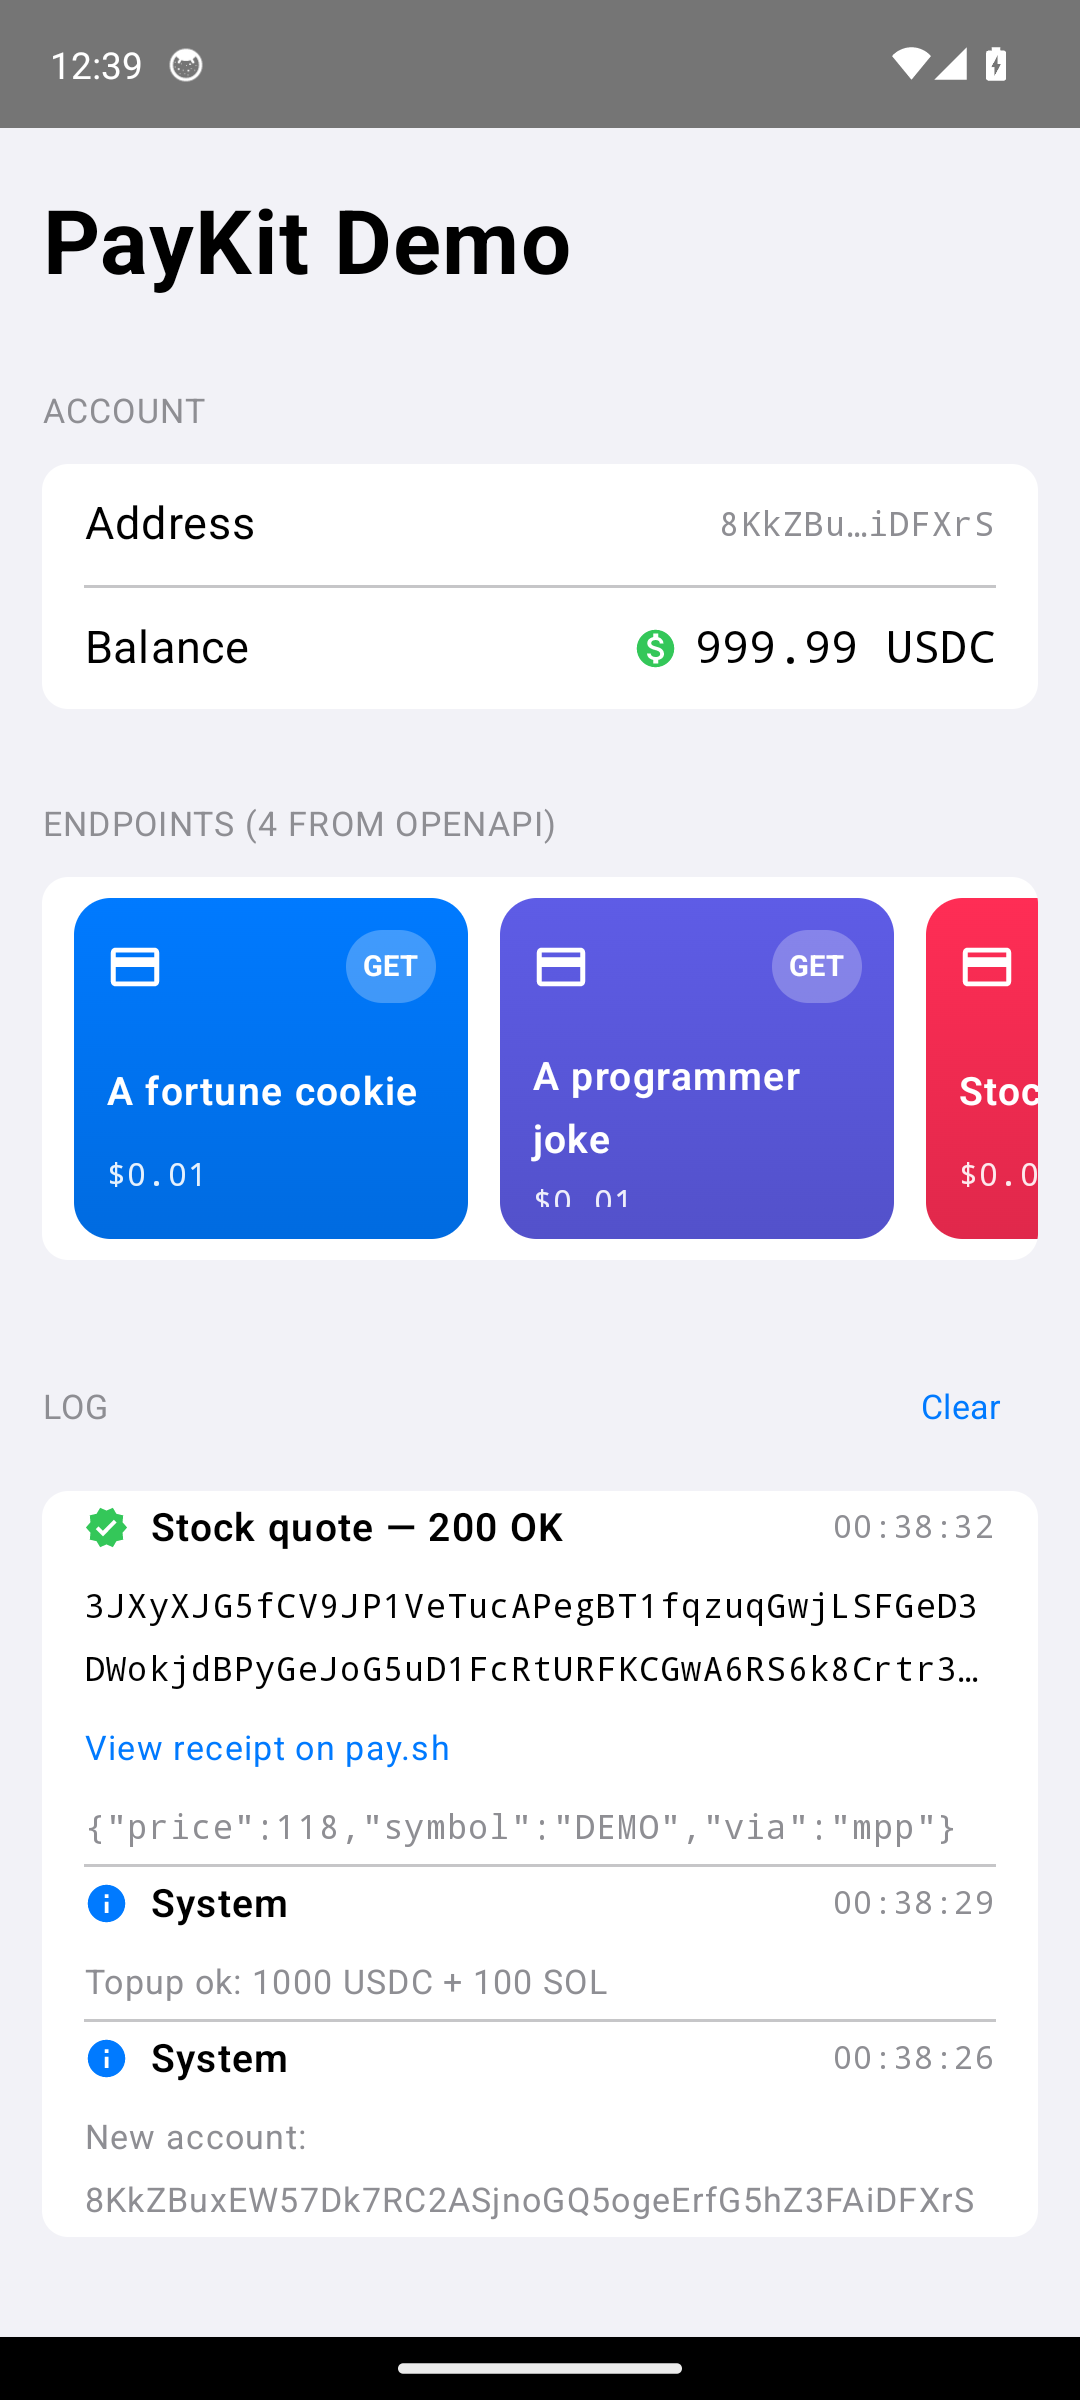
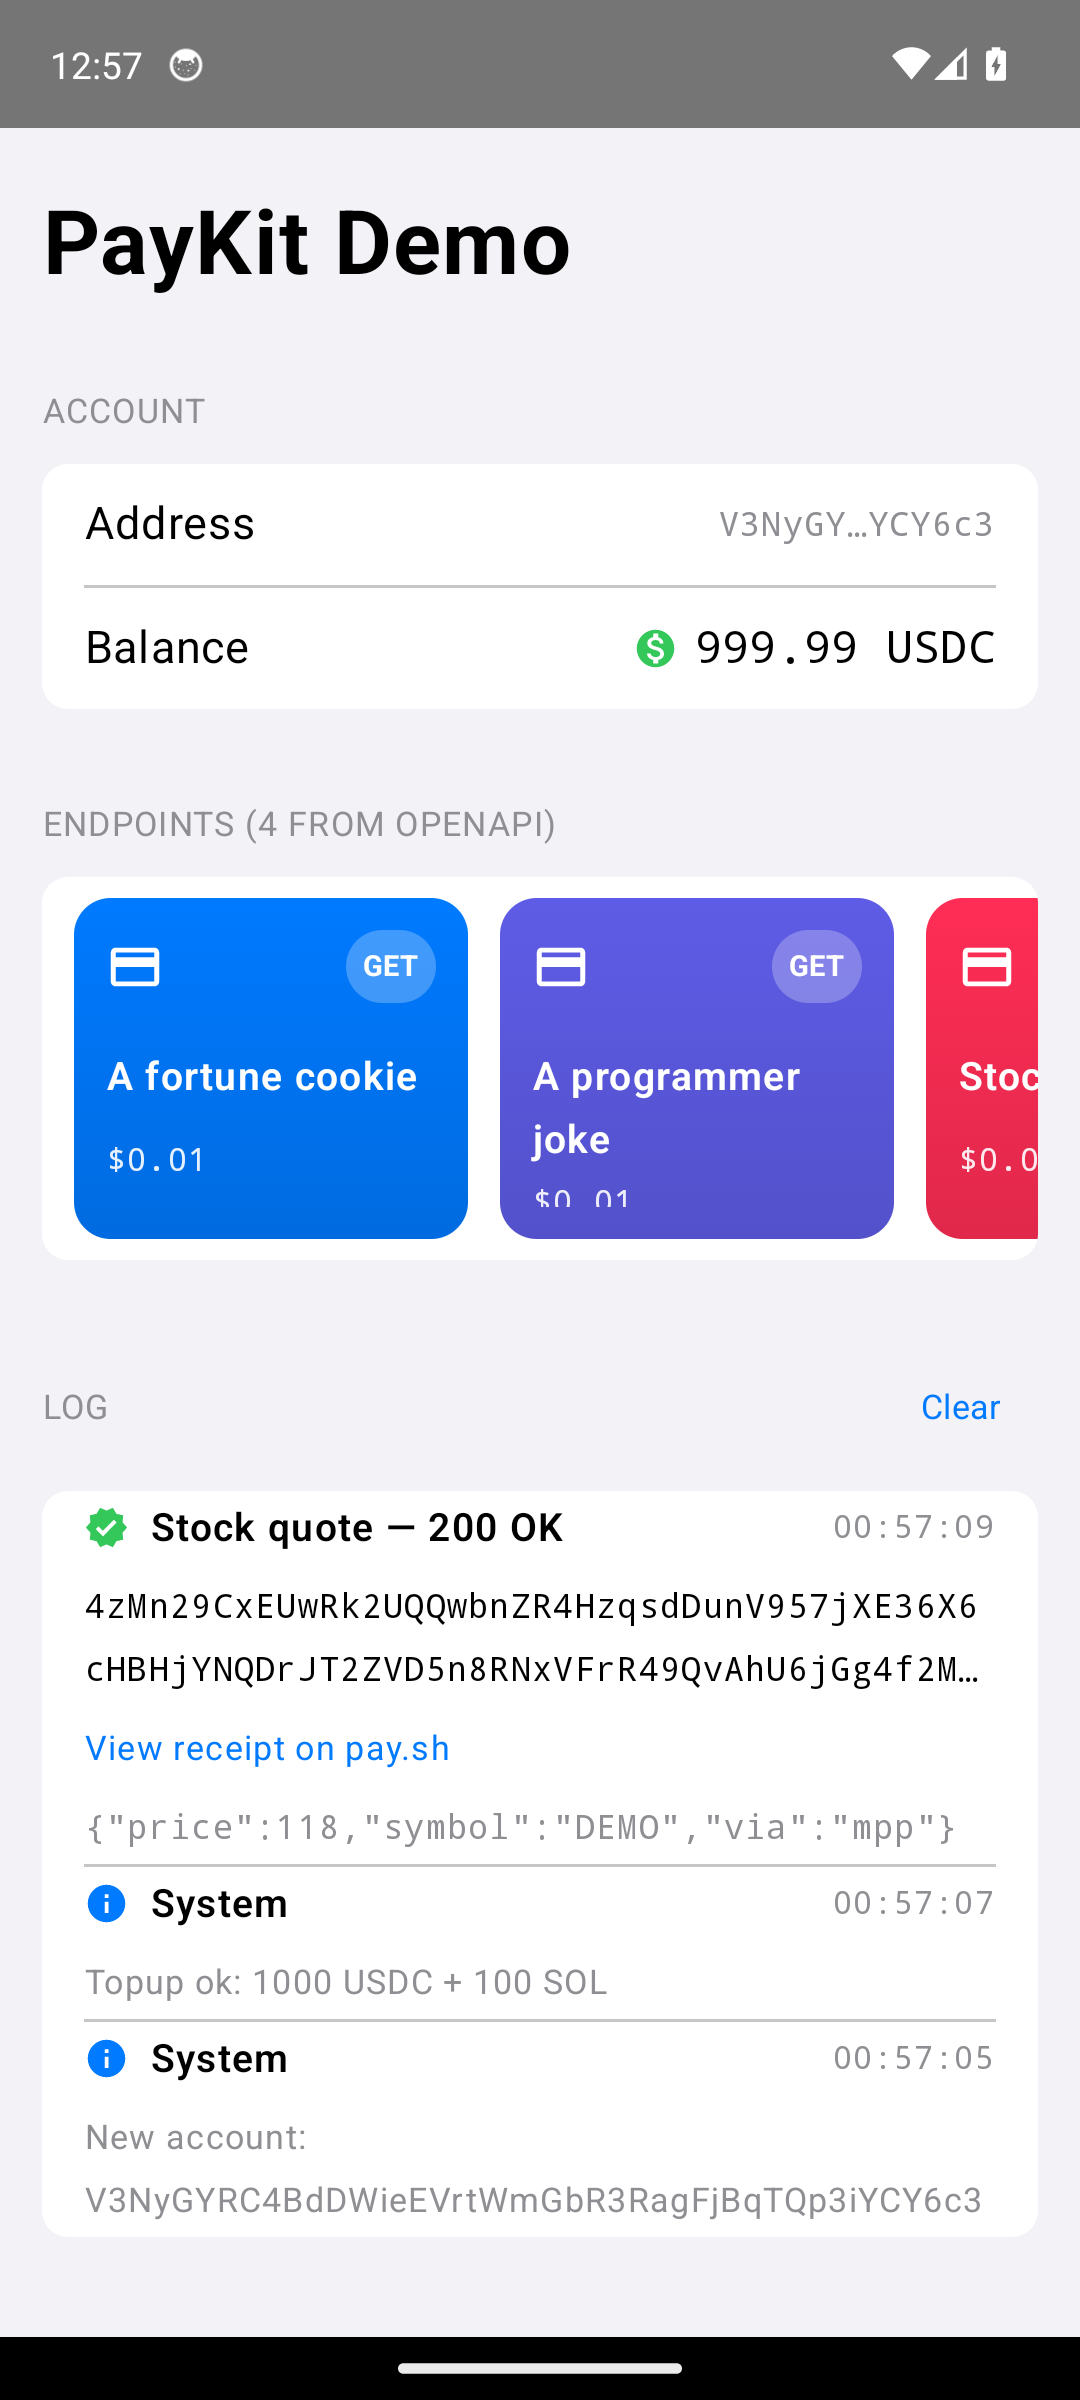
feat(kotlin/example): surface protocol + intent per endpoint, route consume by intent
Mirror the swift fix: read every offer's method (mpp/x402) and the intent, show
them on each card (e.g. 'x402 · mpp', 'mpp', 'mpp · session'), and only settle
one-shot charge endpoints over MPP. Non-charge intents (session streaming,
subscription, x402 upto) show a clear message about their dedicated multi-step
API instead of firing a charge the server's non-charge 402 rejects. Re-aligned
to the current OpenAPI offers and refreshed the screenshot.

diff --git a/kotlin/examples/AndroidDemo/app/src/main/java/com/solana/paykit/demo/OpenApi.kt b/kotlin/examples/AndroidDemo/app/src/main/java/com/solana/paykit/demo/OpenApi.kt
@@ -31,6 +31,12 @@ data class Endpoint(
     val priceUsd: String,
     val icon: ImageVector,
     val tint: Color,
+    /** Discovery intent of the first offer (`charge` / `session` / …); the demo
+     *  only settles `charge` over MPP and explains the rest. */
+    val intent: String,
+    /** Display string of the accepted protocols + non-charge intent, e.g.
+     *  `x402 · mpp` or `mpp · session`. */
+    val protocols: String,
 )
 
 /** Vertical-gradient bottom stop: the tint darkened ~12% (mirrors the iOS
@@ -110,7 +116,8 @@ object OpenApi {
 
     private fun endpoint(path: String, method: String, operation: JsonObject, index: Int): Endpoint {
         val paymentInfo = operation["x-payment-info"]?.jsonObject
-        val firstOffer = paymentInfo?.get("offers")?.jsonArray?.firstOrNull()?.jsonObject
+        val offers = paymentInfo?.get("offers")?.jsonArray
+        val firstOffer = offers?.firstOrNull()?.jsonObject
 
         val summary = (operation["summary"] as? JsonPrimitive)?.contentOrNull?.trim()
         val label = if (!summary.isNullOrEmpty()) summary else path
@@ -127,7 +134,26 @@ object OpenApi {
             priceUsd = priceString(firstOffer),
             icon = iconFor(intent = intent, scheme = scheme, method = payMethod),
             tint = PALETTE[index % PALETTE.size],
+            intent = if (!intent.isNullOrEmpty()) intent else "charge",
+            protocols = protocolsLabel(offers, intent),
         )
+    }
+
+    /**
+     * Display string of the accepted protocols (offer `method`s, de-duplicated
+     * in offer order) plus the intent when it is not a plain charge, so the card
+     * surfaces the MPP/x402 split and flags session/subscription routes.
+     * E.g. `x402 · mpp`, `mpp`, `mpp · session`.
+     */
+    private fun protocolsLabel(offers: kotlinx.serialization.json.JsonArray?, intent: String?): String {
+        val methods = LinkedHashSet<String>()
+        offers?.forEach { offer ->
+            ((offer as? JsonObject)?.get("method") as? JsonPrimitive)?.contentOrNull
+                ?.takeIf { it.isNotEmpty() }?.let { methods.add(it) }
+        }
+        val parts = methods.toMutableList()
+        if (intent != null && intent.lowercase() != "charge") parts.add(intent.lowercase())
+        return if (parts.isEmpty()) "—" else parts.joinToString(" · ")
     }
 
     /**

diff --git a/kotlin/examples/AndroidDemo/app/src/main/java/com/solana/paykit/demo/MainActivity.kt b/kotlin/examples/AndroidDemo/app/src/main/java/com/solana/paykit/demo/MainActivity.kt
@@ -307,6 +307,21 @@ private fun DemoScreen() {
                             enabled = busy == null && signer != null,
                             onClick = onClick@{
                                 val s = signer ?: return@onClick
+                                // The demo settles one-shot charge endpoints over MPP. Other
+                                // intents (session streaming, subscription, x402 upto) are
+                                // multi-step flows with dedicated APIs, not the 402 -> charge ->
+                                // retry loop — explain instead of firing a charge the server's
+                                // non-charge 402 would reject.
+                                if (endpoint.intent != "charge") {
+                                    append(
+                                        LogEntry.failure(
+                                            endpoint,
+                                            "${endpoint.label} is an mpp/${endpoint.intent} flow, not a one-shot charge. " +
+                                                "Open it with the session API (PaymentChannelSession) — this tap-to-pay demo only settles charge endpoints.",
+                                        )
+                                    )
+                                    return@onClick
+                                }
                                 busy = BusyKind.Pay(endpoint.id)
                                 scope.launch {
                                     append(consume(s, endpoint))
@@ -543,6 +558,14 @@ private fun EndpointCard(
             fontSize = 12.sp,
             fontFamily = FontFamily.Monospace,
             color = Color.White.copy(alpha = 0.9f),
+        )
+        Text(
+            text = endpoint.protocols,
+            fontSize = 11.sp,
+            fontWeight = FontWeight.Medium,
+            color = Color.White.copy(alpha = 0.85f),
+            maxLines = 1,
+            overflow = TextOverflow.Ellipsis,
         )
     }
 }
